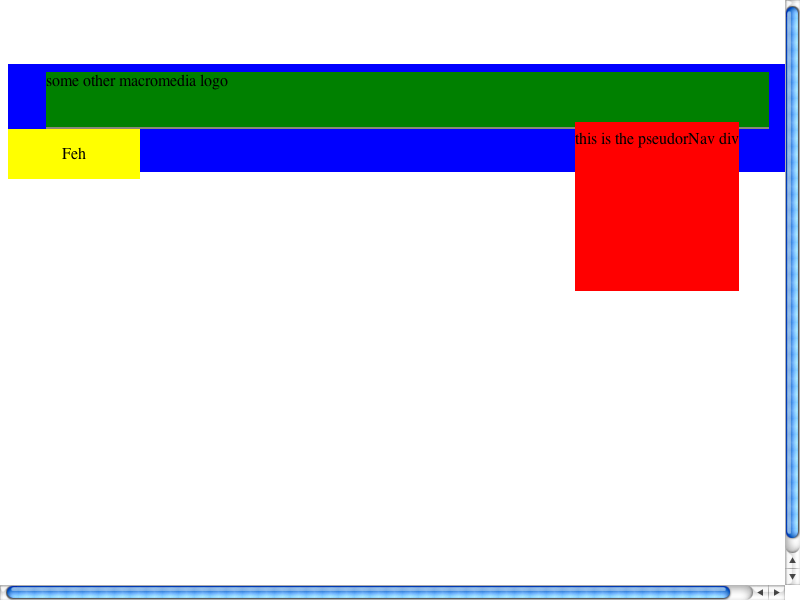
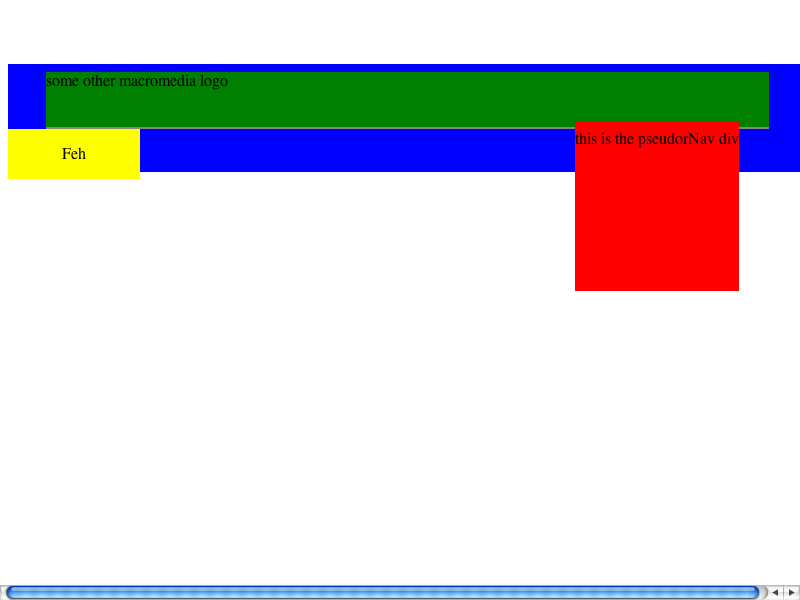
WebCore:
2009-04-07  David Hyatt  <hyatt@apple.com>

        Reviewed by Adam Roben

        Fix ScrollView's algorithm that determines whether or not to show scrollbars.  There was a bug
        with the method mainly because RenderView will size itself to the viewport's size, making it
        impossible to really know the document's "true" size.

        In order to solve this problem ScrollView now has a minimumContentsSize method.  This method
        returns the document size excluding the RenderView from the calculation.  This width/height
        is now cached on RenderView in m_docWidth/m_docHeight member variables.

        * WebCore.base.exp:
        * page/FrameView.cpp:
        (WebCore::FrameView::adjustPageHeight):
        (WebCore::FrameView::minimumContentsSize):
        * page/FrameView.h:
        * platform/ScrollView.cpp:
        (WebCore::ScrollView::updateScrollbars):
        * platform/ScrollView.h:
        (WebCore::ScrollView::minimumContentsSize):
        * rendering/RenderView.cpp:
        (WebCore::RenderView::layout):
        (WebCore::RenderView::calcDocHeight):
        (WebCore::RenderView::calcDocWidth):
        * rendering/RenderView.h:
        (WebCore::RenderView::docWidth):
        (WebCore::RenderView::docHeight):

WebKit/mac:

2009-04-07  David Hyatt  <hyatt@apple.com>

        Reviewed by Adam Roben

        Mac portion of fix to make DumpRenderTree always produce accurate scrollbar results.  Change
[…]

Changed region(s): [[0.9062, 0.0, 1.0, 1.0]]

diff --git a/WebCore/rendering/RenderView.cpp b/WebCore/rendering/RenderView.cpp
@@ -121,12 +121,11 @@ void RenderView::layout()
     if (needsLayout())
         RenderBlock::layout();
 
-    // Ensure that docWidth() >= width() and docHeight() >= height().
-    setOverflowWidth(width());
-    setOverflowHeight(height());
+    m_docWidth = calcDocWidth();
+    m_docHeight = calcDocHeight();
 
-    setOverflowWidth(docWidth());
-    setOverflowHeight(docHeight());
+    setOverflowWidth(max(width(), m_docWidth));
+    setOverflowHeight(max(height(), m_docHeight));
 
     ASSERT(layoutDelta() == IntSize());
     ASSERT(m_layoutStateDisableCount == 0);
@@ -550,12 +549,12 @@ IntRect RenderView::viewRect() const
     return IntRect();
 }
 
-int RenderView::docHeight() const
+int RenderView::calcDocHeight() const
 {
-    int h = height();
-    int lowestPos = lowestPosition();
-    if (lowestPos > h)
-        h = lowestPos;
+    // Exclude our own height, since it always matches the viewport height.  We want to know the height
+    // of the document if it is potentially smaller than the viewport (this value will be used when trying
+    // to figure out if scrollbars are needed).
+    int h = max(0, lowestPosition(true, false));
 
     // FIXME: This doesn't do any margin collapsing.
     // Instead of this dh computation we should keep the result
@@ -570,13 +569,13 @@ int RenderView::docHeight() const
     return h;
 }
 
-int RenderView::docWidth() const
+int RenderView::calcDocWidth() const
 {
-    int w = width();
-    int rightmostPos = rightmostPosition();
-    if (rightmostPos > w)
-        w = rightmostPos;
-    
+    // Exclude our own width, since it always matches the viewport width.  We want to know the width
+    // of the document if it is potentially smaller than the viewport (this value will be used when trying
+    // to figure out if scrollbars are needed).
+    int w = max(0, rightmostPosition(true, false));
+
     for (RenderBox* c = firstChildBox(); c; c = c->nextSiblingBox()) {
         int dw = c->width() + c->marginLeft() + c->marginRight();
         if (dw > w)

diff --git a/WebCore/platform/ScrollView.cpp b/WebCore/platform/ScrollView.cpp
@@ -339,13 +339,15 @@ void ScrollView::updateScrollbars(const IntSize& desiredOffset)
             if (hasVerticalScrollbar != oldHasVertical || hasHorizontalScrollbar != oldHasHorizontal)
                 visibleContentsResized();
 
-            scrollsVertically = (vScroll == ScrollbarAlwaysOn) || (vScroll == ScrollbarAuto && contentsHeight() > height());
+            IntSize docSize = minimumContentsSize();
+
+            scrollsVertically = (vScroll == ScrollbarAlwaysOn) || (vScroll == ScrollbarAuto && docSize.height() > height());
             if (scrollsVertically)
-                scrollsHorizontally = (hScroll == ScrollbarAlwaysOn) || (hScroll == ScrollbarAuto && contentsWidth() + scrollbarThickness > width());
+                scrollsHorizontally = (hScroll == ScrollbarAlwaysOn) || (hScroll == ScrollbarAuto && docSize.width() + scrollbarThickness > width());
             else {
-                scrollsHorizontally = (hScroll == ScrollbarAlwaysOn) || (hScroll == ScrollbarAuto && contentsWidth() > width());
+                scrollsHorizontally = (hScroll == ScrollbarAlwaysOn) || (hScroll == ScrollbarAuto && docSize.width() > width());
                 if (scrollsHorizontally)
-                    scrollsVertically = (vScroll == ScrollbarAlwaysOn) || (vScroll == ScrollbarAuto && contentsHeight() + scrollbarThickness > height());
+                    scrollsVertically = (vScroll == ScrollbarAlwaysOn) || (vScroll == ScrollbarAuto && docSize.height() + scrollbarThickness > height());
             }
         } else {
             scrollsHorizontally = (hScroll == ScrollbarAuto) ? hasHorizontalScrollbar : (hScroll == ScrollbarAlwaysOn);

diff --git a/WebKit/mac/WebView/WebDynamicScrollBarsView.m b/WebKit/mac/WebView/WebDynamicScrollBarsView.m
@@ -29,7 +29,11 @@
 #import "WebDynamicScrollBarsViewInternal.h"
 
 #import "WebDocument.h"
+#import "WebFrameInternal.h"
 #import "WebFrameView.h"
+#import "WebHTMLViewInternal.h"
+#import <WebCore/Frame.h>
+#import <WebCore/FrameView.h>
 #import <WebKitSystemInterface.h>
 
 using namespace WebCore;
@@ -118,6 +122,14 @@ const int WebCoreScrollbarAlwaysOn = ScrollbarAlwaysOn;
                 }
 
                 NSSize documentSize = [documentView frame].size;
+                if ([documentView isKindOfClass:[WebHTMLView class]]) {
+                    WebHTMLView *htmlView = (WebHTMLView*)documentView;
+                    if (Frame* coreFrame = core([htmlView _frame])) {
+                        if (FrameView* coreView = coreFrame->view())
+                            documentSize = coreView->minimumContentsSize();
+                    }
+                }
+
                 NSSize frameSize = [self frame].size;
 
                 scrollsVertically = (vScroll == ScrollbarAlwaysOn) ||

diff --git a/WebCore/rendering/RenderView.h b/WebCore/rendering/RenderView.h
@@ -50,14 +50,14 @@ public:
     virtual void calcWidth();
     virtual void calcHeight();
     virtual void calcPrefWidths();
-    
-    int docHeight() const;
-    int docWidth() const;
 
     // The same as the FrameView's layoutHeight/layoutWidth but with null check guards.
     int viewHeight() const;
     int viewWidth() const;
     
+    int docWidth() const { return m_docWidth; }
+    int docHeight() const { return m_docHeight; }
+
     float zoomFactor() const;
 
     FrameView* frameView() const { return m_frameView; }
@@ -171,6 +171,9 @@ protected:
 
 private:
     bool shouldRepaint(const IntRect& r) const;
+        
+    int calcDocHeight() const;
+    int calcDocWidth() const;
 
 protected:
     FrameView* m_frameView;
@@ -192,6 +195,9 @@ protected:
     RenderWidgetSet m_widgets;
 
 private:
+    int m_docWidth;
+    int m_docHeight;
+
     int m_bestTruncatedAt;
     int m_truncatorWidth;
     bool m_forcedPageBreak;

diff --git a/WebCore/platform/ScrollView.h b/WebCore/platform/ScrollView.h
@@ -125,7 +125,8 @@ public:
     
     // Methods for getting/setting the size of the document contained inside the ScrollView (as an IntSize or as individual width and height
     // values).
-    IntSize contentsSize() const;
+    IntSize contentsSize() const; // Always at least as big as the visibleWidth()/visibleHeight().
+    virtual IntSize minimumContentsSize() const { return contentsSize(); } // Allows a subclass to indicate a smaller size than the viewport (used for scrollbar checking).
     int contentsWidth() const { return contentsSize().width(); }
     int contentsHeight() const { return contentsSize().height(); }
     virtual void setContentsSize(const IntSize&);

diff --git a/WebCore/page/FrameView.cpp b/WebCore/page/FrameView.cpp
@@ -1448,4 +1448,12 @@ void FrameView::adjustPageHeight(float *newBottom, float oldTop, float oldBottom
         *newBottom = oldBottom;
 }
 
+IntSize FrameView::minimumContentsSize() const
+{
+    RenderView* root = m_frame->contentRenderer();
+    if (!root)
+        return ScrollView::minimumContentsSize();
+    return IntSize(root->docWidth(), root->docHeight());
+}
+
 } // namespace WebCore

diff --git a/WebCore/page/FrameView.h b/WebCore/page/FrameView.h
@@ -73,6 +73,8 @@ public:
     void setMarginWidth(int);
     void setMarginHeight(int);
 
+    virtual IntSize minimumContentsSize() const;
+
     virtual void setCanHaveScrollbars(bool);
 
     virtual PassRefPtr<Scrollbar> createScrollbar(ScrollbarOrientation);
